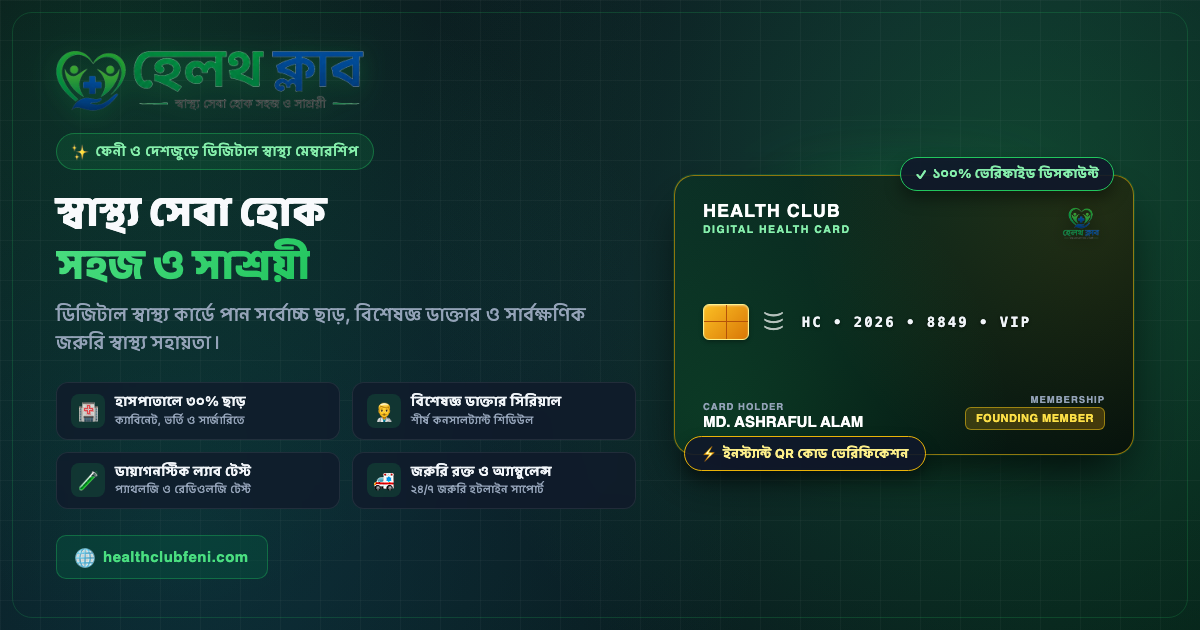
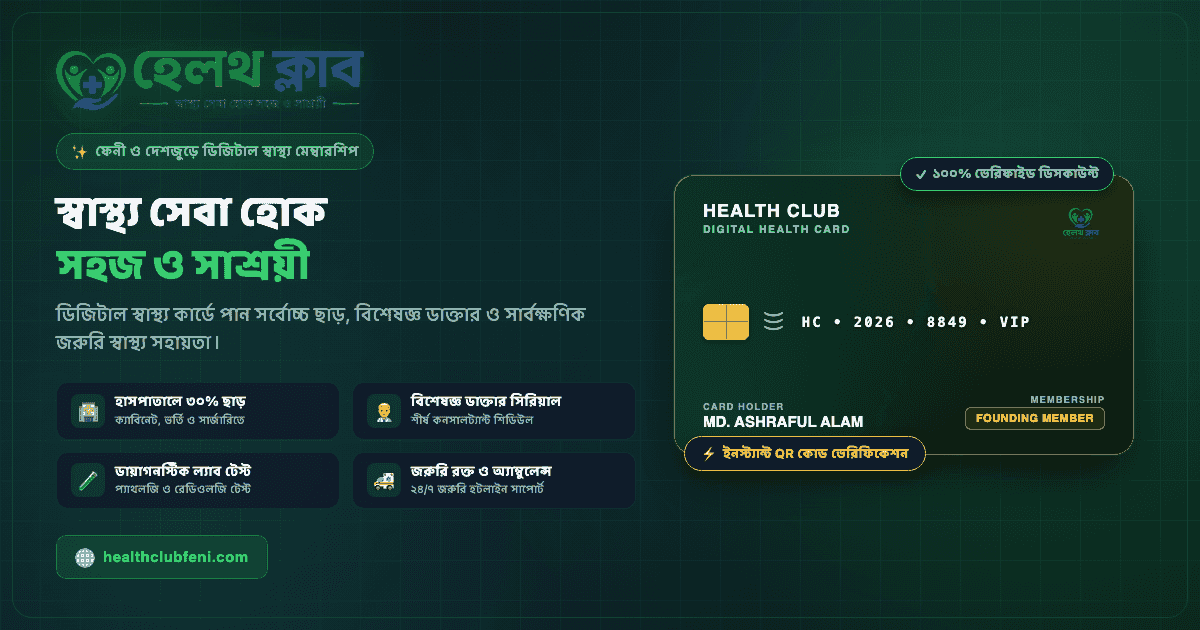
feat: implement automated OG image optimization script to reduce file size and support multiple formats

diff --git a/scripts/compress_og.js b/scripts/compress_og.js
@@ -1,0 +1,64 @@
+/* eslint-disable @typescript-eslint/no-require-imports */
+const sharp = require('sharp');
+const path = require('path');
+const fs = require('fs');
+
+async function compressOgImage() {
+  const publicDir = path.join(__dirname, '..', 'public');
+  const inputPng = path.join(publicDir, 'og-image.png');
+  const tempPng = path.join(publicDir, 'og-image-temp.png');
+  const outputJpg = path.join(publicDir, 'og-image.jpg');
+  const outputWebp = path.join(publicDir, 'og-image.webp');
+
+  if (!fs.existsSync(inputPng)) {
+    console.error('❌ og-image.png not found at:', inputPng);
+    process.exit(1);
+  }
+
+  const initialStats = fs.statSync(inputPng);
+  console.log(`Original og-image.png size: ${(initialStats.size / 1024).toFixed(2)} KB`);
+
+  // Read full quality buffer first
+  const sourceBuffer = fs.readFileSync(inputPng);
+
+  // 1. High-fidelity JPEG (target ~75 KB)
+  await sharp(sourceBuffer)
+    .jpeg({
+      quality: 85,
+      mozjpeg: true,
+    })
+    .toFile(outputJpg);
+  const jpgStats = fs.statSync(outputJpg);
+  console.log(`✅ Generated og-image.jpg: ${(jpgStats.size / 1024).toFixed(2)} KB`);
+
+  // 2. Ultra-compact WebP (target ~45 KB)
+  await sharp(sourceBuffer)
+    .webp({
+      quality: 85,
+      effort: 6,
+    })
+    .toFile(outputWebp);
+  const webpStats = fs.statSync(outputWebp);
+  console.log(`✅ Generated og-image.webp: ${(webpStats.size / 1024).toFixed(2)} KB`);
+
+  // 3. Optimized PNG (under 100 KB with 128 color palette + maximum compression effort)
+  await sharp(sourceBuffer)
+    .png({
+      quality: 80,
+      compressionLevel: 9,
+      effort: 10,
+      palette: true,
+      colours: 128,
+      dither: 0.8,
+    })
+    .toFile(tempPng);
+
+  fs.renameSync(tempPng, inputPng);
+  const newPngStats = fs.statSync(inputPng);
+  console.log(`✅ Compressed og-image.png: ${(newPngStats.size / 1024).toFixed(2)} KB`);
+}
+
+compressOgImage().catch((err) => {
+  console.error('Error compressing OG images:', err);
+  process.exit(1);
+});

diff --git a/scripts/generate_og_image.py b/scripts/generate_og_image.py
@@ -39,6 +39,11 @@ def main():
     res = subprocess.run(cmd, stdout=subprocess.PIPE, stderr=subprocess.PIPE)
     if os.path.exists(output_path):
         print(f"✅ Successfully generated standard 1200x630 OpenGraph card at {output_path}")
+        # Run compression script to optimize PNG (<100 KB), JPG (~75 KB), and WebP (~45 KB)
+        compress_script = os.path.join(base_dir, "scripts", "compress_og.js")
+        if os.path.exists(compress_script):
+            print("Optimizing and compressing OG images...")
+            subprocess.run(["node", compress_script], check=False)
     else:
         print(f"❌ Failed to generate screenshot. Stderr: {res.stderr.decode('utf-8', errors='ignore')}")
 

diff --git a/todo.md b/todo.md
@@ -349,7 +349,7 @@ This document lists all tasks required to resolve the 21 architectural, data, AP
   - **Files**: `src/app/actions/analyticsActions.ts`
   - **Details**: `getAdminRevenueAnalyticsAction` fetches ALL members and ALL transactions into Node.js memory, then aggregates with `for` loops. As data grows, this risks OOM crashes and severe latency. Refactor to use `prisma.$queryRaw` with SQL `GROUP BY`, `COUNT`, `SUM`, and date functions for tier breakdowns, monthly financials, and partner performance metrics.
 
-- [ ] **TODO-73**: **Compress `og-image.png` (620 KB → <100 KB)**
+- [x] **TODO-73**: **Compress `og-image.png` (620 KB → <100 KB)**
   - **Files**: `public/og-image.png`
   - **Details**: OpenGraph image is 620 KB — should be <100 KB for fast social sharing previews. Compress to optimized WebP or JPEG at 1200×630, targeting ~50-80 KB.
 
